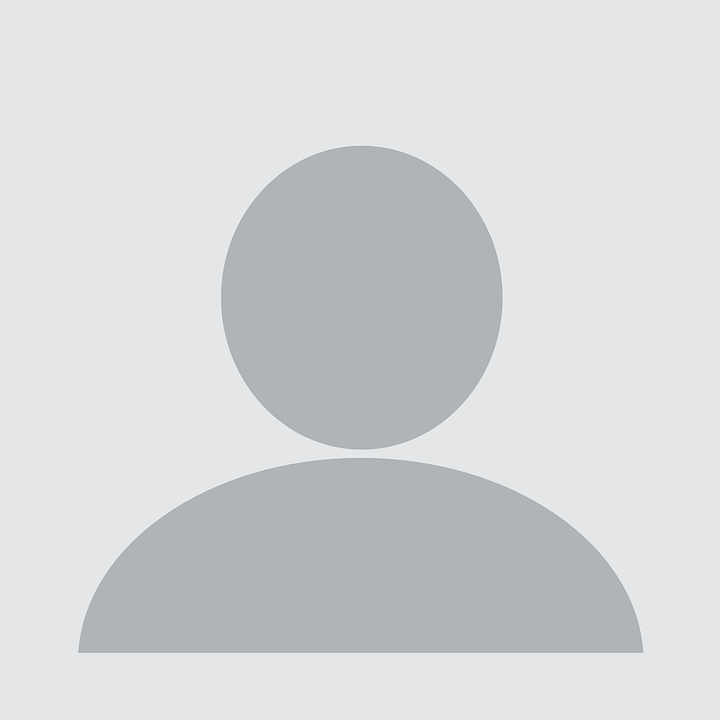
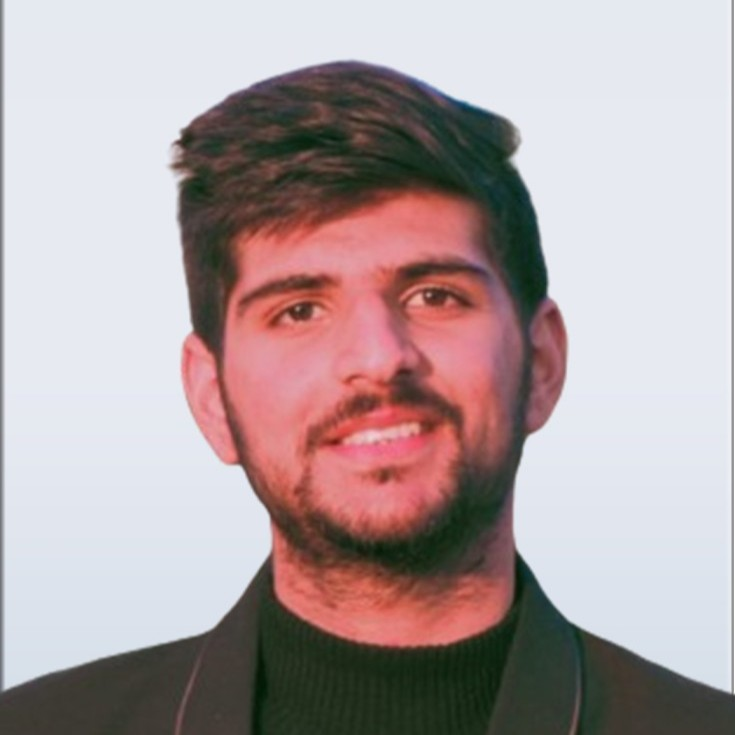
Updated basics

diff --git a/_includes/footer.html b/_includes/footer.html
@@ -1,6 +1,6 @@
-{% include base_path %}
+<!-- {% include base_path %} -->
 
-{% if site.author.github or site.author.bitbucket or site.atom_feed.hide != true %}
+<!-- {% if site.author.github or site.author.bitbucket or site.atom_feed.hide != true %}
 <div class="page__footer-follow">
   <ul class="social-icons">
     {% if site.data.ui-text[site.locale].follow_label %}
@@ -22,4 +22,4 @@
 <div class="page__footer-copyright">
   &copy; {{ site.time | date: '%Y' }} {{ site.name | default: site.title }}, {{ site.data.ui-text[site.locale].powered_by | default: "Powered by" }} <a href="https://jekyllrb.com" rel="nofollow">Jekyll</a> &amp; <a href="https://github.com/academicpages/academicpages.github.io">AcademicPages</a>, a fork of <a href="https://mademistakes.com/work/minimal-mistakes-jekyll-theme/" rel="nofollow">Minimal Mistakes</a>.<br />
   Site last updated {{ "now" | date: '%Y-%m-%d' }}, <a href="/sitemap/" style="text-transform: uppercase;">{{ site.data.ui-text[site.locale].site_map | default: "Sitemap" }}</a>
-</div>
+</div> -->

diff --git a/_pages/about.md b/_pages/about.md
@@ -1,56 +1,23 @@
 ---
 permalink: /
-title: "Academic Pages is a ready-to-fork GitHub Pages template for academic personal websites"
+title: "About"
 author_profile: true
-redirect_from: 
+redirect_from:
   - /about/
   - /about.html
 ---
 
-This is the front page of a website that is powered by the [Academic Pages template](https://github.com/academicpages/academicpages.github.io) and hosted on GitHub pages. [GitHub pages](https://pages.github.com) is a free service in which websites are built and hosted from code and data stored in a GitHub repository, automatically updating when a new commit is made to the repository. This template was forked from the [Minimal Mistakes Jekyll Theme](https://mmistakes.github.io/minimal-mistakes/) created by Michael Rose, and then extended to support the kinds of content that academics have: publications, talks, teaching, a portfolio, blog posts, and a dynamically-generated CV. Incidentally, these same features make it a great template for anyone that needs to show off a professional template!
+I am passionate about building intelligent systems that solve meaningful problems. Driven by curiosity, I enjoy understanding how things work at their core and exploring the principles that make complex systems possible. What fascinates me most is the mathematical foundation behind technology, the ideas and abstractions that power the systems we use every day.
 
- You can fork [this template](https://github.com/academicpages/academicpages.github.io) right now, modify the configuration and Markdown files, add your own PDFs and other content, and have your own site for free, with no ads!
+Beyond technical work, I have experience leading teams, organizing initiatives, and collaborating with people from diverse backgrounds. These experiences have strengthened my ability to communicate ideas clearly, take ownership of challenges, and work effectively in uncertain and fast-changing environments.
 
-A data-driven personal website
-======
-Like many other Jekyll-based GitHub Pages templates, Academic Pages makes you separate the website's content from its form. The content & metadata of your website are in structured Markdown files, while various other files constitute the theme, specifying how to transform that content & metadata into HTML pages. You keep these various Markdown (.md), YAML (.yml), HTML, and CSS files in a public GitHub repository. Each time you commit and push an update to the repository, the [GitHub pages](https://pages.github.com/) service creates static HTML pages based on these files, which are hosted on GitHub's servers free of charge.
+I believe that the best technology is not necessarily the most complex, but the one that solves the right problem in the simplest and most effective way. My goal is to build systems that are useful and are capable of creating meaningful impact.
 
-Many of the features of dynamic content management systems (like Wordpress) can be achieved in this fashion, using a fraction of the computational resources and with far less vulnerability to hacking and DDoSing. You can also modify the theme to your heart's content without touching the content of your site. If you get to a point where you've broken something in Jekyll/HTML/CSS beyond repair, your Markdown files describing your talks, publications, etc. are safe. You can rollback the changes or even delete the repository and start over - just be sure to save the Markdown files! You can also write scripts that process the structured data on the site, such as [this one](https://github.com/academicpages/academicpages.github.io/blob/master/talkmap.ipynb) that analyzes metadata in pages about talks to display [a map of every location you've given a talk](https://academicpages.github.io/talkmap.html).
+# Education Background
 
-For those users that need more advanced functionality, the template also supports the following popular tools:
-- [MathJax](https://www.mathjax.org/) for mathematical equations
-- [Mermaid](https://mermaid.js.org/) for diagraming
-- [Plotly](https://plotly.com/javascript/) for plotting
+* **M.Tech. in Artificial Intelligence** — IIT Jodhpur, Rajasthan *(2024–2026)* · Full-Time · **CGPA: 8.56/10**
 
-Getting started
-======
-1. Register a GitHub account if you don't have one and confirm your e-mail (required!)
-1. Fork [this template](https://github.com/academicpages/academicpages.github.io) by clicking the "Use this template" button in the top right. 
-1. Go to the repository's settings (rightmost item in the tabs that start with "Code", should be below "Unwatch"). Rename the repository "[your GitHub username].github.io", which will also be your website's URL.
-1. Set site-wide configuration and create content & metadata (see below -- also see [this set of diffs](https://archive.is/3TPas) showing what files were changed to set up [an example site](https://getorg-testacct.github.io) for a user with the username "getorg-testacct")
-1. Upload any files (like PDFs, .zip files, etc.) to the files/ directory. They will appear at https://[your GitHub username].github.io/files/example.pdf.  
-1. Check status by going to the repository settings, in the "GitHub pages" section
+* **B.Tech. in Mathematics & Scientific Computing** — NIT Hamirpur, Himachal Pradesh *(2020–2024)* · Full-Time · **CGPA: 8.46/10**
 
-Site-wide configuration
-------
-The main configuration file for the site is in the base directory in [_config.yml](https://github.com/academicpages/academicpages.github.io/blob/master/_config.yml), which defines the content in the sidebars and other site-wide features. You will need to replace the default variables with ones about yourself and your site's github repository. The configuration file for the top menu is in [_data/navigation.yml](https://github.com/academicpages/academicpages.github.io/blob/master/_data/navigation.yml). For example, if you don't have a portfolio or blog posts, you can remove those items from that navigation.yml file to remove them from the header. 
 
-Create content & metadata
-------
-For site content, there is one Markdown file for each type of content, which are stored in directories like _publications, _talks, _posts, _teaching, or _pages. For example, each talk is a Markdown file in the [_talks directory](https://github.com/academicpages/academicpages.github.io/tree/master/_talks). At the top of each Markdown file is structured data in YAML about the talk, which the theme will parse to do lots of cool stuff. The same structured data about a talk is used to generate the list of talks on the [Talks page](https://academicpages.github.io/talks), each [individual page](https://academicpages.github.io/talks/2012-03-01-talk-1) for specific talks, the talks section for the [CV page](https://academicpages.github.io/cv), and the [map of places you've given a talk](https://academicpages.github.io/talkmap.html) (if you run this [python file](https://github.com/academicpages/academicpages.github.io/blob/master/talkmap.py) or [Jupyter notebook](https://github.com/academicpages/academicpages.github.io/blob/master/talkmap.ipynb), which creates the HTML for the map based on the contents of the _talks directory).
 
-**Markdown generator**
-
-The repository includes [a set of Jupyter notebooks](https://github.com/academicpages/academicpages.github.io/tree/master/markdown_generator
-) that converts a CSV containing structured data about talks or presentations into individual Markdown files that will be properly formatted for the Academic Pages template. The sample CSVs in that directory are the ones I used to create my own personal website at stuartgeiger.com. My usual workflow is that I keep a spreadsheet of my publications and talks, then run the code in these notebooks to generate the Markdown files, then commit and push them to the GitHub repository.
-
-How to edit your site's GitHub repository
-------
-Many people use a git client to create files on their local computer and then push them to GitHub's servers. If you are not familiar with git, you can directly edit these configuration and Markdown files directly in the github.com interface. Navigate to a file (like [this one](https://github.com/academicpages/academicpages.github.io/blob/master/_talks/2012-03-01-talk-1.md) and click the pencil icon in the top right of the content preview (to the right of the "Raw | Blame | History" buttons). You can delete a file by clicking the trashcan icon to the right of the pencil icon. You can also create new files or upload files by navigating to a directory and clicking the "Create new file" or "Upload files" buttons. 
-
-Example: editing a Markdown file for a talk
-![Editing a Markdown file for a talk](/images/editing-talk.png)
-
-For more info
-------
-More info about configuring Academic Pages can be found in [the guide](https://academicpages.github.io/markdown/), the [growing wiki](https://github.com/academicpages/academicpages.github.io/wiki), and you can always [ask a question on GitHub](https://github.com/academicpages/academicpages.github.io/discussions). The [guides for the Minimal Mistakes theme](https://mmistakes.github.io/minimal-mistakes/docs/configuration/) (which this theme was forked from) might also be helpful.

diff --git a/_pages/experience.md b/_pages/experience.md
@@ -1,0 +1,31 @@
+---
+layout: archive
+title: "Experience"
+permalink: /experience/
+author_profile: true
+---
+
+## Research Intern | Samsung Research Institute, Noida
+
+*June 2025 – July 2025 · 2 Months*
+
+* Contributed to the development of intelligent systems focused on real-world applications.
+* Explored and implemented solutions involving large-scale data processing, automation, and decision-making.
+* Collaborated with researchers and engineers to design, evaluate, and improve system performance.
+
+**Certificate:** [View Certificate](CERTIFICATE_LINK)
+
+---
+
+## Research Intern | IIT Roorkee
+
+*May 2023 – July 2023 · 3 Months*
+
+* Worked on research problems involving machine learning and data-driven modeling.
+* Conducted experiments, analyzed results, and contributed to the development of predictive solutions.
+* Applied analytical and problem-solving skills to address real-world challenges in a research environment.
+
+**Certificate:** [View Certificate](CERTIFICATE_LINK)
+
+
+

diff --git a/_publications/audio-negation-interspeech.md b/_publications/audio-negation-interspeech.md
@@ -1,0 +1,13 @@
+---
+title: "Negation in audio generation models"
+collection: publications
+category: conferences
+permalink: /publication/interspeech26
+excerpt: 'Paper is accepted at interspeech 2026. Stay tuned for the final draft.'
+date: 2026-08-01
+venue: 'Interspeech'
+paperurl: ''
+citation: ''
+---
+
+<!-- Using [MathJax](https://www.mathjax.org/) in the description is supported - $$E=mc^2$$ - however, the use must be mindful that the default delimiters are `$$...$$` and `\\[...\\]` which differs from the `$...$` that is typically expected. -->

diff --git a/_portfolio/portfolio-1.md b/_portfolio/portfolio-1.md
@@ -1,6 +1,6 @@
 ---
-title: "Portfolio item number 1"
-excerpt: "Short description of portfolio item number 1<br/><img src='/images/500x300.png'>"
+title: "Portfolio item number 1000"
+excerpt: "Short description of portfolio item number 1 is here<br/><img src='/images/500x300.png'>"
 collection: portfolio
 ---
 